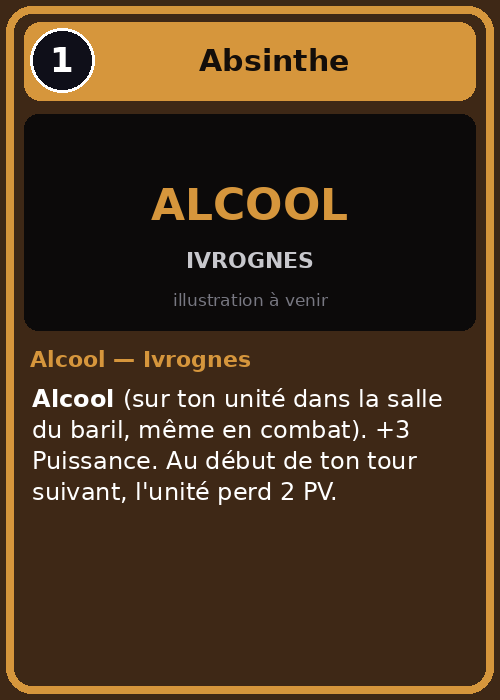
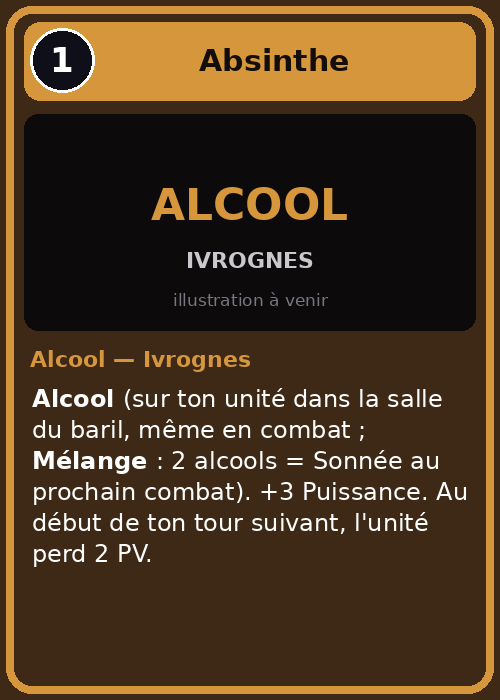
Alcools : règle du mélange écrite sur les cartes
Claude-Session: https://claude.ai/code/session_01Ei1ETxKFF4cSM4RwXRQ4jQ

Changed region(s): [[0.06, 0.6, 0.87, 0.81], [0.87, 0.69, 0.93, 0.72]]

diff --git a/tools/generate.py b/tools/generate.py
@@ -82,17 +82,17 @@ CARDS = [
       "Tes blessées du Camp reviennent en Expédition. +1 Puissance de plus si ton baril est intact. "
       "**Signature** : 1 exemplaire max.", legal=1),
     # --- Ivrognes : la Cave (Réserve de faction) ---
-    C("biere", "Bière blonde", "Alcool", 0, IVR, "**Alcool** (sur ton unité dans la salle du baril, même en combat). +1 Puissance.", legal=3),
-    C("cidre", "Cidre", "Alcool", 0, IVR, "**Alcool** (sur ton unité dans la salle du baril, même en combat). +1 PV.", legal=2),
-    C("hydromel", "Hydromel", "Alcool", 1, IVR, "**Alcool** (sur ton unité dans la salle du baril, même en combat). +2 PV et soigne 2 PV en s'attachant.", legal=2),
+    C("biere", "Bière blonde", "Alcool", 0, IVR, "**Alcool** (sur ton unité dans la salle du baril, même en combat ; **Mélange** : 2 alcools = Sonnée au prochain combat). +1 Puissance.", legal=3),
+    C("cidre", "Cidre", "Alcool", 0, IVR, "**Alcool** (sur ton unité dans la salle du baril, même en combat ; **Mélange** : 2 alcools = Sonnée au prochain combat). +1 PV.", legal=2),
+    C("hydromel", "Hydromel", "Alcool", 1, IVR, "**Alcool** (sur ton unité dans la salle du baril, même en combat ; **Mélange** : 2 alcools = Sonnée au prochain combat). +2 PV et soigne 2 PV en s'attachant.", legal=2),
     C("rhum", "Rhum", "Alcool", 1, IVR,
-      "**Alcool** (sur ton unité dans la salle du baril, même en combat). +2 Puissance. **Gueule de bois** : à la Nuit, l'unité est Sonnée pour le tour suivant.", legal=1),
-    C("whisky", "Whisky tourbé", "Alcool", 1, IVR, "**Alcool** (sur ton unité dans la salle du baril, même en combat). L'unité ne peut pas être Sonnée.", legal=1),
-    C("vin-chaud", "Vin chaud", "Alcool", 1, IVR, "**Alcool** (sur ton unité dans la salle du baril, même en combat). Soigne complètement l'unité en s'attachant.", legal=1),
+      "**Alcool** (sur ton unité dans la salle du baril, même en combat ; **Mélange** : 2 alcools = Sonnée au prochain combat). +2 Puissance. **Gueule de bois** : à la Nuit, l'unité est Sonnée pour le tour suivant.", legal=1),
+    C("whisky", "Whisky tourbé", "Alcool", 1, IVR, "**Alcool** (sur ton unité dans la salle du baril, même en combat ; **Mélange** : 2 alcools = Sonnée au prochain combat). L'unité ne peut pas être Sonnée.", legal=1),
+    C("vin-chaud", "Vin chaud", "Alcool", 1, IVR, "**Alcool** (sur ton unité dans la salle du baril, même en combat ; **Mélange** : 2 alcools = Sonnée au prochain combat). Soigne complètement l'unité en s'attachant.", legal=1),
     C("absinthe", "Absinthe", "Alcool", 1, IVR,
-      "**Alcool** (sur ton unité dans la salle du baril, même en combat). +3 Puissance. Au début de ton tour suivant, l'unité perd 2 PV.", legal=1),
+      "**Alcool** (sur ton unité dans la salle du baril, même en combat ; **Mélange** : 2 alcools = Sonnée au prochain combat). +3 Puissance. Au début de ton tour suivant, l'unité perd 2 PV.", legal=1),
     C("liqueur-feu", "Liqueur de feu", "Alcool", 1, IVR,
-      "**Alcool** (sur ton unité dans la salle du baril, même en combat). Quand l'unité meurt : 2 dégâts à chaque ennemi de sa salle.", legal=1),
+      "**Alcool** (sur ton unité dans la salle du baril, même en combat ; **Mélange** : 2 alcools = Sonnée au prochain combat). Quand l'unité meurt : 2 dégâts à chaque ennemi de sa salle.", legal=1),
     # --- Cartes de test (en attendant les Druides) ---
     C("gardien-druide", "Druide (nom temporaire)", "Gardien", 0, "Test",
       "Passif : à chaque monstre tué, récolte un ingrédient.", 2, 8, legal=1),
